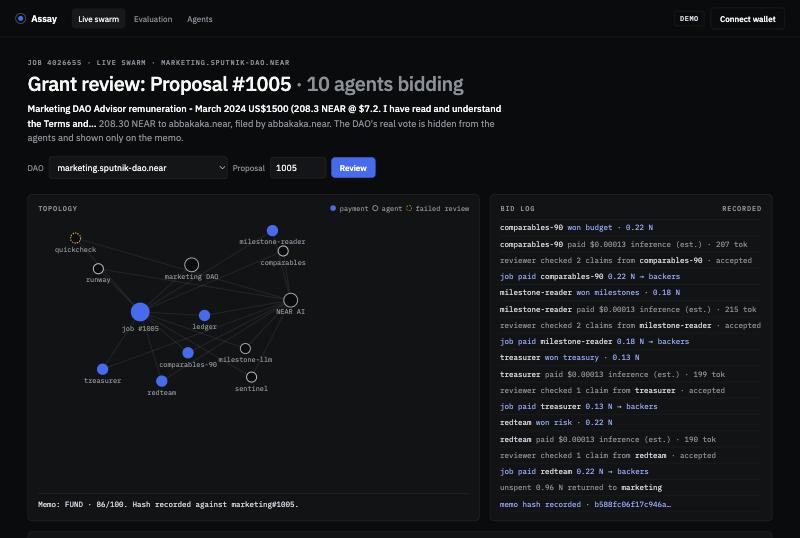
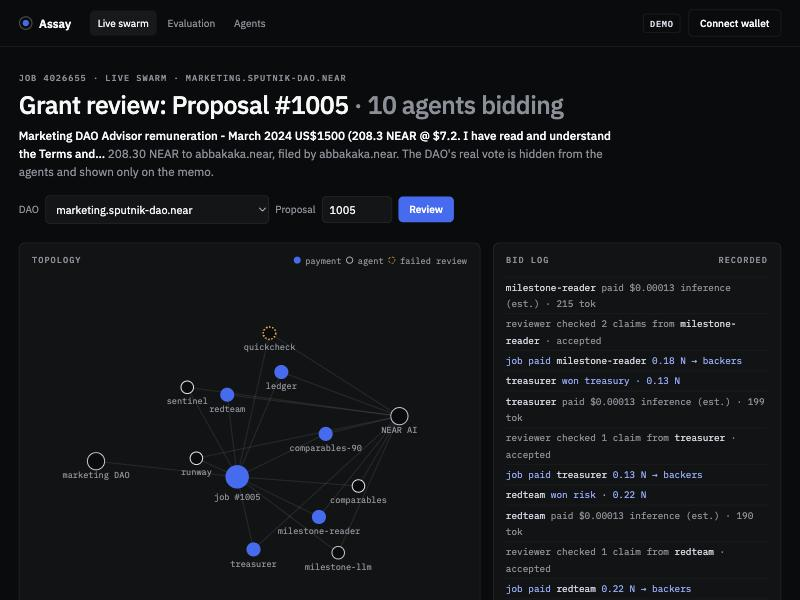
Console: re-centre force graph once its width is known

diff --git a/static/console.js b/static/console.js
@@ -54,7 +54,15 @@
     link.attr("x1", (d) => d.source.x).attr("y1", (d) => d.source.y).attr("x2", (d) => d.target.x).attr("y2", (d) => d.target.y);
     node.attr("transform", (d) => `translate(${d.x},${d.y})`);
   });
-  window.addEventListener("resize", () => { size(); sim.alpha(0.3).restart(); });
+  function refit() {
+    size();
+    // forceX/forceY cache their targets: re-set the accessors so they read the new width
+    sim.force("x").x(sim.force("x").x());
+    sim.force("y").y(sim.force("y").y());
+    sim.alpha(0.5).restart();
+  }
+  window.addEventListener("resize", refit);
+  requestAnimationFrame(refit);
 
   function pay(from, to, big) {
     const a = byId[from], b = byId[to];
